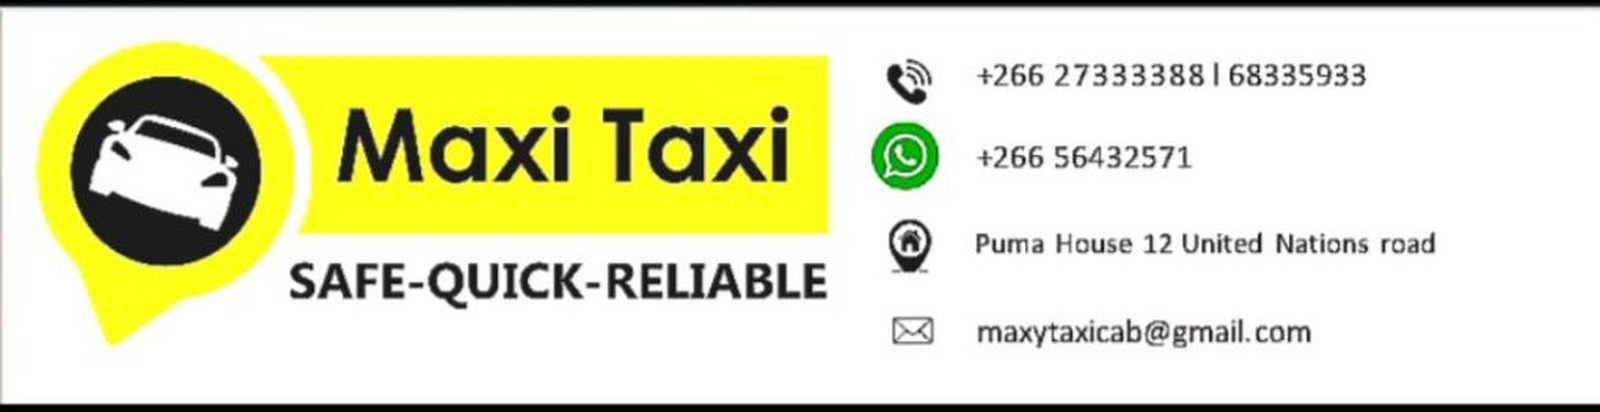
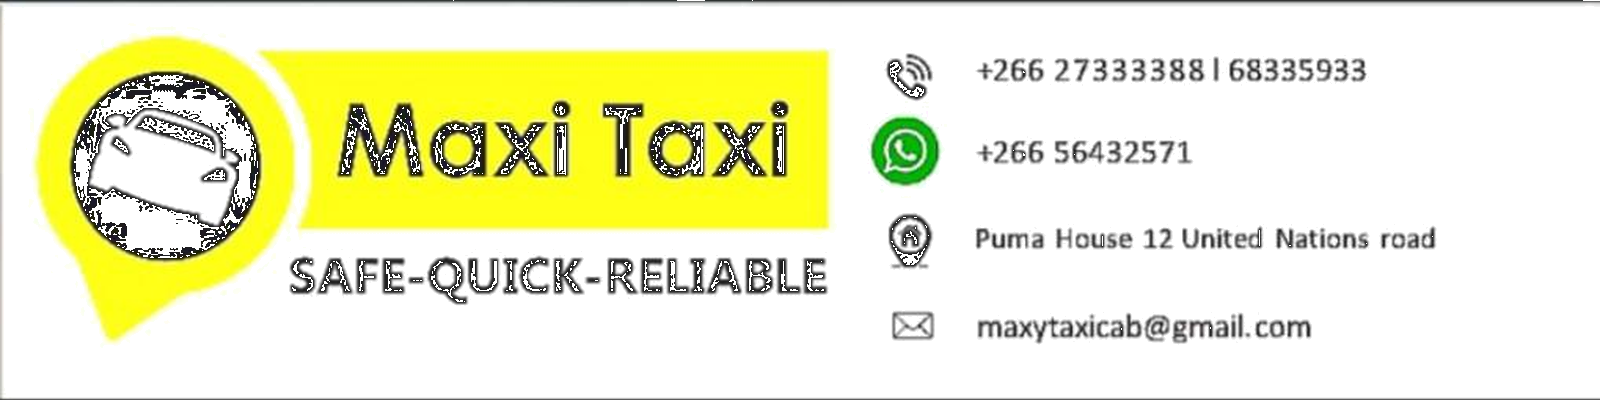
Add files via upload

diff --git a/app.py b/app.py
@@ -399,7 +399,7 @@ def generate_invoice_pdf(invoice, client=None):
     buffer = BytesIO()
     doc = SimpleDocTemplate(buffer, pagesize=A4,
                             rightMargin=12*mm, leftMargin=12*mm,
-                            topMargin=8*mm, bottomMargin=10*mm)
+                            topMargin=5*mm, bottomMargin=22*mm)
     styles = getSampleStyleSheet()
     elements = []
 
@@ -418,14 +418,14 @@ def generate_invoice_pdf(invoice, client=None):
     right = ParagraphStyle('Right', parent=styles['Normal'], fontSize=9, alignment=TA_RIGHT)
     bold = ParagraphStyle('Bold', parent=styles['Normal'], fontSize=9, leading=12)
 
-    # Exact letterhead banner (logo left + contacts right) at top of A4
+    # Letterhead at top edge — no black border lines
     header_path = os.path.join(os.path.dirname(__file__), "letterhead_header.png")
     logo_path = os.path.join(os.path.dirname(__file__), "logo.jpg")
     if os.path.exists(header_path):
-        header = Image(header_path, width=186*mm, height=40*mm)
+        header = Image(header_path, width=186*mm, height=36*mm)
         header.hAlign = 'CENTER'
         elements.append(header)
-        elements.append(Spacer(1, 3*mm))
+        elements.append(Spacer(1, 4*mm))
     elif os.path.exists(logo_path):
         logo = Image(logo_path, width=70*mm, height=22*mm)
         logo.hAlign = 'CENTER'
@@ -436,7 +436,8 @@ def generate_invoice_pdf(invoice, client=None):
         elements.append(Paragraph("SAFE • QUICK • RELIABLE", subtitle))
 
     elements.append(Paragraph("INVOICE", ParagraphStyle('InvTitle', parent=styles['Heading1'],
-                                                         fontSize=14, alignment=TA_CENTER, textColor=colors.HexColor("#1a1a1a"))))
+                                                         fontSize=13, alignment=TA_CENTER, textColor=colors.HexColor("#1a1a1a"),
+                                                         spaceAfter=2*mm)))
     elements.append(Spacer(1, 2*mm))
 
     # Meta info (Invoice No + Date only)
@@ -551,16 +552,23 @@ def generate_invoice_pdf(invoice, client=None):
     bank_style = ParagraphStyle('Bank', parent=normal, fontSize=9, leading=12)
     elements.append(Paragraph("<b>Bank:</b> Postbank &nbsp;&nbsp; <b>Account No:</b> 1017866800015 &nbsp;&nbsp; <b>Branch:</b> 500100", bank_style))
     elements.append(Paragraph("<b>Account Name:</b> Maxy Taxi Transport", bank_style))
-    elements.append(Spacer(1, 6*mm))
 
-    elements.append(HRFlowable(width="100%", thickness=1, color=colors.HexColor("#f5a623")))
-    elements.append(Spacer(1, 3*mm))
-    elements.append(Paragraph("Thank you for your Business",
-                              ParagraphStyle('Thanks', parent=styles['Normal'], fontSize=11,
-                                             alignment=TA_CENTER, textColor=colors.HexColor("#1a1a1a"),
-                                             fontName='Helvetica-Bold')))
+    # Footer fixed at the very bottom of every page
+    def _draw_inv_footer(canvas, doc_):
+        canvas.saveState()
+        page_w, _ = A4
+        canvas.setStrokeColor(colors.HexColor("#f5a623"))
+        canvas.setLineWidth(0.8)
+        canvas.line(12*mm, 16*mm, page_w - 12*mm, 16*mm)
+        canvas.setFont('Helvetica-Bold', 10)
+        canvas.setFillColor(colors.HexColor("#1a1a1a"))
+        canvas.drawCentredString(page_w/2, 10*mm, "Thank you for your Business")
+        canvas.setFont('Helvetica', 8)
+        canvas.setFillColor(colors.HexColor("#555555"))
+        canvas.drawCentredString(page_w/2, 5.5*mm, "SAFE  •  QUICK  •  RELIABLE")
+        canvas.restoreState()
 
-    doc.build(elements)
+    doc.build(elements, onFirstPage=_draw_inv_footer, onLaterPages=_draw_inv_footer)
     buffer.seek(0)
     return buffer
 
@@ -568,7 +576,7 @@ def generate_quotation_pdf(quote, client=None):
     buffer = BytesIO()
     doc = SimpleDocTemplate(buffer, pagesize=A4,
                             rightMargin=12*mm, leftMargin=12*mm,
-                            topMargin=8*mm, bottomMargin=10*mm)
+                            topMargin=5*mm, bottomMargin=22*mm)
     styles = getSampleStyleSheet()
     elements = []
 
@@ -581,14 +589,14 @@ def generate_quotation_pdf(quote, client=None):
     right = ParagraphStyle('Right', parent=styles['Normal'], fontSize=9, alignment=TA_RIGHT)
     bold = ParagraphStyle('Bold', parent=styles['Normal'], fontSize=9)
 
-    # Exact letterhead banner (logo left + contacts right) at top of A4
+    # Letterhead at top edge — no black border lines
     header_path = os.path.join(os.path.dirname(__file__), "letterhead_header.png")
     logo_path = os.path.join(os.path.dirname(__file__), "logo.jpg")
     if os.path.exists(header_path):
-        header = Image(header_path, width=186*mm, height=40*mm)
+        header = Image(header_path, width=186*mm, height=36*mm)
         header.hAlign = 'CENTER'
         elements.append(header)
-        elements.append(Spacer(1, 3*mm))
+        elements.append(Spacer(1, 4*mm))
     elif os.path.exists(logo_path):
         logo = Image(logo_path, width=70*mm, height=22*mm)
         logo.hAlign = 'CENTER'
@@ -599,7 +607,8 @@ def generate_quotation_pdf(quote, client=None):
         elements.append(Paragraph("SAFE • QUICK • RELIABLE", subtitle))
 
     elements.append(Paragraph("QUOTATION", ParagraphStyle('QTitle', parent=styles['Heading1'],
-                                                           fontSize=14, alignment=TA_CENTER, textColor=colors.HexColor("#1a1a1a"))))
+                                                           fontSize=13, alignment=TA_CENTER, textColor=colors.HexColor("#1a1a1a"),
+                                                           spaceAfter=2*mm)))
     elements.append(Spacer(1, 2*mm))
 
     # Only Quote No and Date (no Status / Valid Until)
@@ -697,18 +706,26 @@ def generate_quotation_pdf(quote, client=None):
     elements.append(Spacer(1, 5*mm))
 
     if quote.get('notes'):
-        elements.append(Spacer(1, 5*mm))
         elements.append(Paragraph("<b>Notes / Terms</b>", heading))
         elements.append(Paragraph(quote['notes'], normal))
 
-    elements.append(Spacer(1, 10*mm))
-    elements.append(HRFlowable(width="100%", thickness=0.5, color=colors.grey))
-    elements.append(Paragraph("This quotation is valid until the date shown. Prices are in Lesotho Loti (M).",
-                              ParagraphStyle('Footer', parent=styles['Normal'], fontSize=8, alignment=TA_CENTER, textColor=colors.grey)))
-    elements.append(Paragraph("Thank you for considering Maxy Taxi Transport.",
-                              ParagraphStyle('Footer2', parent=styles['Normal'], fontSize=8, alignment=TA_CENTER, textColor=colors.grey)))
+    # Footer fixed at the very bottom of every page (never mid-page)
+    def _draw_quote_footer(canvas, doc_):
+        canvas.saveState()
+        page_w, _ = A4
+        # Soft gold line above footer
+        canvas.setStrokeColor(colors.HexColor("#f5a623"))
+        canvas.setLineWidth(0.8)
+        canvas.line(12*mm, 16*mm, page_w - 12*mm, 16*mm)
+        canvas.setFont('Helvetica', 8)
+        canvas.setFillColor(colors.HexColor("#555555"))
+        canvas.drawCentredString(page_w/2, 10*mm, "This quotation is valid until the date shown. Prices are in Lesotho Loti (M).")
+        canvas.setFont('Helvetica-Bold', 9)
+        canvas.setFillColor(colors.HexColor("#1a1a1a"))
+        canvas.drawCentredString(page_w/2, 5.5*mm, "Thank you for considering Maxy Taxi Transport.")
+        canvas.restoreState()
 
-    doc.build(elements)
+    doc.build(elements, onFirstPage=_draw_quote_footer, onLaterPages=_draw_quote_footer)
     buffer.seek(0)
     return buffer
 
